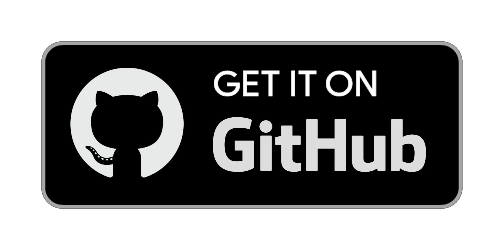
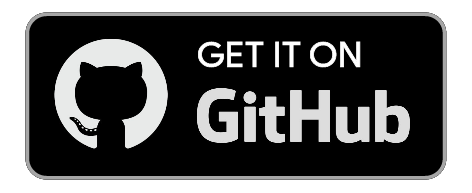
iOS release link

diff --git a/README.md b/README.md
@@ -1,20 +1,29 @@
 <h1 align="center" style="font-size:28px; line-height:1"><b>Allowance</b></h1>
 
-<a href="https://play.google.com/store/apps/details?id=com.budget.allowance">
+<a href="https://allowance-track.web.app/">
   <div align="center">
     <img alt="Icon" src="promotional/README/icon.png" width="150px">
   </div>
 </a>
 
+<br />
 
 <div align="center">
+  <a href="https://apps.apple.com/us/app/allowance/id6463812712">
+    <img alt="iOS App Store Badge" src="promotional/README/app-store-badge.png" height="60px">
+  </a>
   <a href="https://play.google.com/store/apps/details?id=com.budget.allowance">
-    <img alt="Google Play Badge" src="promotional/README/google-play-badge.png" height="80px">
+    <img alt="Google Play Badge" src="promotional/README/google-play-badge.png" height="60px">
   </a>
   <a href="https://github.com/jameskokoska/Allowance/releases/">
-    <img alt="Google Play Badge" src="promotional/README/github-badge.png" height="80px">
+    <img alt="GitHub Badge" src="promotional/README/github-badge.png" height="60px">
+  </a>
+  <a href="https://allowance-track.web.app/">
+    <img alt="PWA Badge" src="promotional/README/pwa-badge.png" height="60px">
   </a>
 </div>
+
+<br />
 
 
 ## Overview
@@ -52,10 +61,14 @@ To use the app, simply set a spending goal and track your transactions. You can 
 * [SQL](https://drift.simonbinder.eu/)
 
 ## Releases
-### Web App
-A web app version of Allowance is available at [https://allowance-track.web.app/](https://allowance-track.web.app/).
+### iOS: App Store
+An App Store release is available at https://apps.apple.com/us/app/allowance/id6463812712
 ### Android: Google Play
-A Google Play release is available at [https://play.google.com/store/apps/details?id=com.budget.allowance](https://play.google.com/store/apps/details?id=com.budget.allowance).
+A Google Play release is available at https://play.google.com/store/apps/details?id=com.budget.allowance
+### GitHub: Android
+The open source GitHub release for Android is available at https://github.com/jameskokoska/Allowance/releases/
+### Web App
+A web app version of Allowance is available at https://allowance-track.web.app/
 
 ## Supported Languages
 Allowance is currently available in the following languages:
